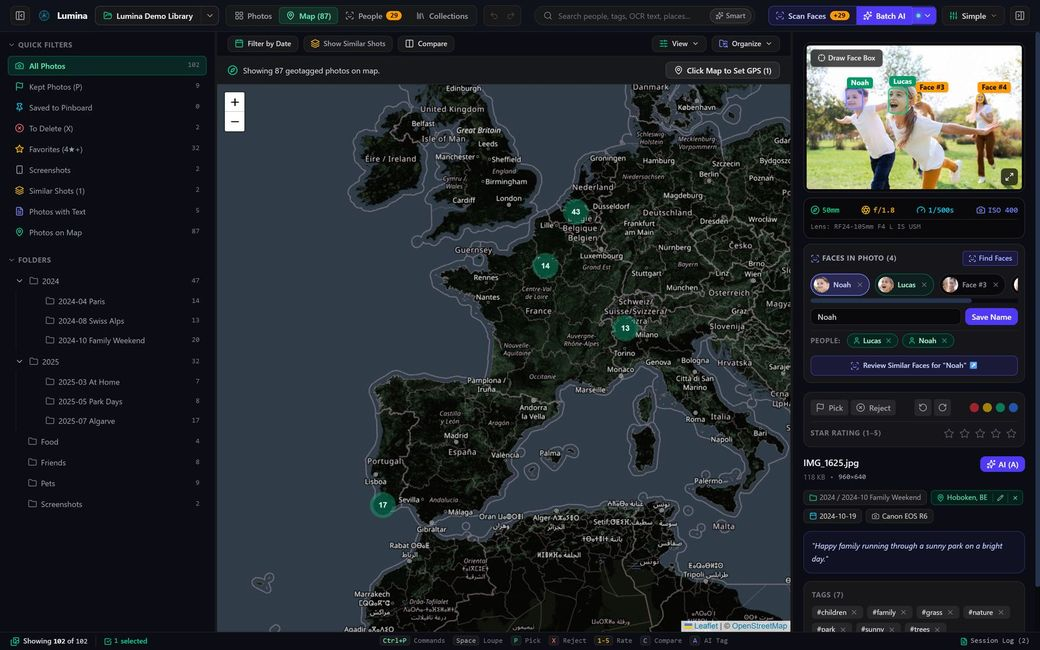
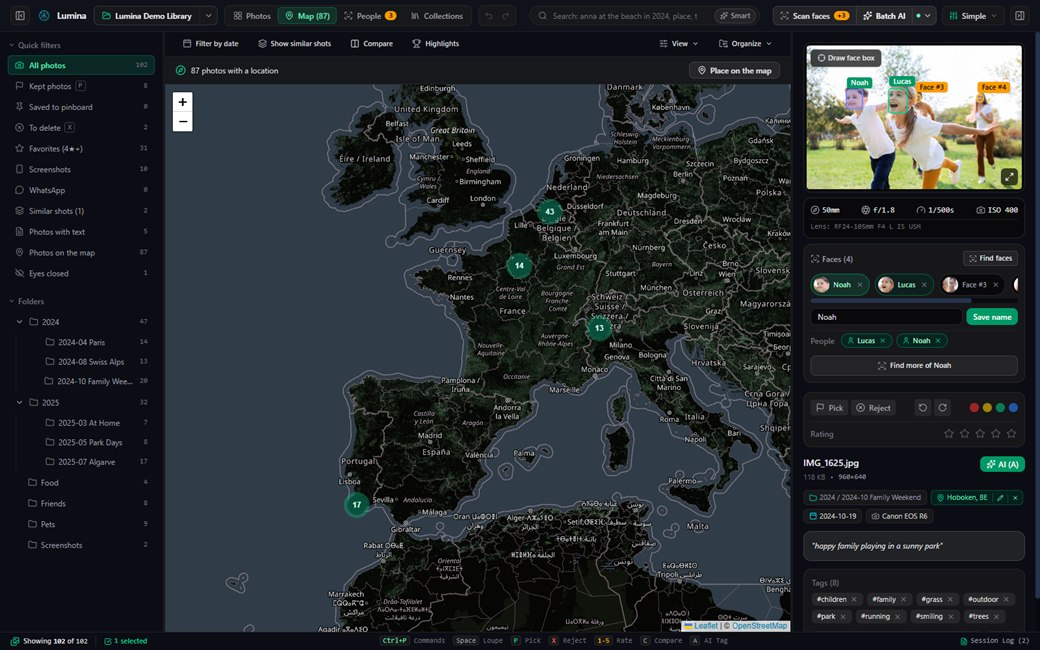
New welcome tour screenshots, shutter speeds as fractions, plainer compare and map
The tour's six screenshots are retaken on the demo library in the new look. Shutter speeds stored as
decimals (0.016666666666666666s) show as 1/60s. The compare view, its burst banner and the map's
location button lose their amber and Title Case. Notes for 5.4.0.

diff --git a/src/components/views/CompareView.tsx b/src/components/views/CompareView.tsx
@@ -109,9 +109,9 @@ export default function CompareView({
       {/* Synchronized Compare Toolbar */}
       <div className="bg-panel border-b border-zinc-800 px-4 py-2 flex items-center justify-between text-xs gap-3 flex-wrap">
         <div className="flex items-center gap-3">
-          <span className="font-semibold text-emerald-300 flex items-center gap-1.5">
-            <Columns className="w-4 h-4 text-emerald-400" />
-            <span>Synchronized Compare ({comparePhotos.length} photos)</span>
+          <span className="font-medium text-zinc-200 flex items-center gap-1.5">
+            <Columns className="w-4 h-4 text-zinc-400" />
+            <span>Side by side ({comparePhotos.length} {comparePhotos.length === 1 ? "photo" : "photos"})</span>
           </span>
           {hiddenCount > 0 && (
             <span
@@ -123,9 +123,9 @@ export default function CompareView({
           )}
 
           {currentBurstIdx >= 0 && unresolvedBurstGroups.length > 0 && (
-            <div className="flex items-center gap-1.5 bg-amber-500/10 border border-amber-500/30 text-amber-300 px-2.5 py-0.5 rounded-lg font-mono text-[11px]">
+            <div className="flex items-center gap-1.5 bg-zinc-800/80 border border-zinc-700 text-zinc-300 px-2.5 py-0.5 rounded-lg text-[11px] tabular-nums">
               <span>
-                Burst #{currentGroupId} ({currentBurstIdx + 1} of {unresolvedBurstGroups.length} remaining)
+                Burst {currentGroupId} · {currentBurstIdx + 1} of {unresolvedBurstGroups.length}
               </span>
               <button
                 onClick={() => {
@@ -136,7 +136,7 @@ export default function CompareView({
                     ];
                   if (prev) jumpToBurstGroup(prev);
                 }}
-                className="p-0.5 hover:bg-amber-500/20 rounded"
+                className="p-0.5 hover:bg-zinc-700 rounded"
                 title="Previous Burst Group"
               >
                 <ChevronLeft className="w-3.5 h-3.5" />
@@ -149,7 +149,7 @@ export default function CompareView({
                     ];
                   if (next) jumpToBurstGroup(next);
                 }}
-                className="p-0.5 hover:bg-amber-500/20 rounded"
+                className="p-0.5 hover:bg-zinc-700 rounded"
                 title="Skip to Next Burst Group"
               >
                 <ChevronRight className="w-3.5 h-3.5" />
@@ -187,13 +187,13 @@ export default function CompareView({
             }}
             className="px-2.5 py-1 bg-zinc-900 hover:bg-zinc-800 rounded border border-zinc-800 text-zinc-400 hover:text-white"
           >
-            Reset 100%
+            Reset zoom
           </button>
           <button
             onClick={() => setViewMode("grid")}
             className="px-3 py-1 bg-zinc-800 hover:bg-zinc-700 text-zinc-200 rounded font-medium ml-2"
           >
-            Exit Compare (C)
+            Exit compare (C)
           </button>
         </div>
       </div>
@@ -323,7 +323,7 @@ export default function CompareView({
                     title="Keep this photo as Pick, stage the rest for _Trash, and auto-advance to the next burst group"
                   >
                     <Trophy className="w-3.5 h-3.5" />
-                    <span>Keep This & Trash Rest</span>
+                    <span>Keep this, trash the rest</span>
                   </button>
                   )}
                 </div>

diff --git a/src/components/layout/RightInspector.tsx b/src/components/layout/RightInspector.tsx
@@ -1,5 +1,6 @@
 import { thumbSrc } from "../../utils/photoHelpers";
 import { codecLabel, formatDuration, isVideo } from "../../utils/media";
+import { shutterLabel } from "../../utils/exposure";
 import { memo, useEffect, useRef } from "react";
 import { call, mediaUrl } from "../../api";
 import { PersonName } from "../people/PersonName";
@@ -452,7 +453,7 @@ function RightInspector({
               </div>
               <div className="flex items-center gap-1 text-zinc-400" title="Shutter speed">
                 <Gauge className="w-3.5 h-3.5" />
-                <span className="text-zinc-200">{activePhoto.shutter_speed || "--s"}</span>
+                <span className="text-zinc-200">{shutterLabel(activePhoto.shutter_speed) || "--s"}</span>
               </div>
               <div className="flex items-center gap-1 text-zinc-400" title="ISO">
                 <Camera className="w-3.5 h-3.5" />
@@ -938,7 +939,7 @@ function RightInspector({
               className="inline-flex items-center gap-1 px-2 py-0.5 rounded-md bg-zinc-900 hover:bg-zinc-800 border border-dashed border-zinc-700 text-zinc-300 hover:text-white transition"
             >
               <MapPin className="w-3 h-3 text-emerald-400" />
-              <span>+ Add Location</span>
+              <span>Add location</span>
             </button>
           )}
           {activePhoto.captured_at && (

diff --git a/src/components/layout/ResultBanners.tsx b/src/components/layout/ResultBanners.tsx
@@ -39,17 +39,16 @@ export default function ResultBanners({ lib }: { lib: LibraryState }) {
 
       {(lib.smartFilter === "DUPLICATES" || lib.showAllBurstVersions) &&
         lib.duplicatePhotosCount > 0 && (
-          <div className="bg-amber-950/30 border-b border-amber-500/30 px-5 py-2 flex items-center justify-between shrink-0">
-            <span className="text-xs text-amber-200">
-              Comparing <strong>{lib.totalBurstGroups}</strong> Burst Groups (
-              {lib.duplicatePhotosCount} items):
+          <div className="bg-panel border-b border-zinc-800 px-5 py-2 flex items-center justify-between shrink-0">
+            <span className="text-xs text-zinc-300">
+              {lib.totalBurstGroups} {lib.totalBurstGroups === 1 ? "burst" : "bursts"}, {lib.duplicatePhotosCount} photos
             </span>
             {access.edit && (
             <button
               onClick={lib.handleKeepSharpestInAllGroups}
-              className="px-3 py-1 bg-emerald-600 hover:bg-emerald-500 text-white rounded-lg text-xs font-semibold shadow transition"
+              className="px-3 py-1 bg-emerald-600 hover:bg-emerald-500 text-white rounded-lg text-xs font-semibold transition"
             >
-              Keep Best & Stage Rest for _Trash
+              Keep the best, move the rest to _Trash
             </button>
             )}
           </div>

diff --git a/src/utils/welcome.ts b/src/utils/welcome.ts
@@ -14,6 +14,14 @@ export interface ReleaseNotes {
 // Newest first. Add an entry for every release that should greet updating users with "What's new".
 export const RELEASE_NOTES: ReleaseNotes[] = [
   {
+    version: "5.4.0",
+    items: [
+      { title: "A calmer look", text: "One accent colour instead of many, grey icons, labels in plain sentence case instead of capitals, and quieter buttons and badges, so your photos stand out. The phone app gets the same treatment." },
+      { title: "Plainer words", text: "Buttons and menus say what they do: Find faces, Find more of Anna, Keep this, trash the rest, Place on the map." },
+      { title: "Shutter speeds read normally", text: "Some cameras store 1/60 s in a way Lumina showed as 0.0166666666666666s. It shows as 1/60s again, also for photos already in your library." },
+    ],
+  },
+  {
     version: "5.3.0",
     items: [
       { title: "Back works on the phone", text: "The phone's back button closes what you opened last (a photo's details, the photo, a person, an album) instead of closing the app, just like the arrow at the top left. From another tab it goes back to Photos." },

diff --git a/src/components/phone/PhoneViewer.tsx b/src/components/phone/PhoneViewer.tsx
@@ -7,6 +7,7 @@ import { openWith, saveToPhone, serverOf, sharePhotos } from "./share";
 import type { FaceInstance, PersonItem, PhotoItem } from "../../types/lumina";
 import { formatBytes, thumbSrc } from "../../utils/photoHelpers";
 import { isVideo } from "../../utils/media";
+import { shutterLabel } from "../../utils/exposure";
 import LoupeVideo from "../modals/LoupeVideo";
 import { useBackCloses } from "./navigation";
 
@@ -467,7 +468,7 @@ function Details({
   }
   const aperture = photo.aperture ? `f/${String(photo.aperture).replace(/^f\//, "")}` : "";
   // A phone's lens name often holds the aperture already ("5.96mm f/1.6")
-  const exposure = [aperture && !(photo.lens_model ?? "").includes(aperture) && aperture, photo.shutter_speed, photo.iso && `ISO ${String(photo.iso).replace(/^ISO\s*/i, "")}`]
+  const exposure = [aperture && !(photo.lens_model ?? "").includes(aperture) && aperture, shutterLabel(photo.shutter_speed), photo.iso && `ISO ${String(photo.iso).replace(/^ISO\s*/i, "")}`]
     .filter(Boolean)
     .join(" · ");
   return (

diff --git a/src/components/views/MapPane.tsx b/src/components/views/MapPane.tsx
@@ -18,8 +18,8 @@ export default function MapPane({ lib }: { lib: LibraryState }) {
           )}
           <span className="text-zinc-300">
             {lib.isPickingMapLocation
-              ? `Click anywhere on the map to assign GPS coordinates to ${lib.selectedHashes.size} selected photo(s)...`
-              : `Showing ${lib.gpsPhotosCount} geotagged photos on map.`}
+              ? `Click the map to place the ${lib.selectedHashes.size} selected ${lib.selectedHashes.size === 1 ? "photo" : "photos"} there`
+              : `${lib.gpsPhotosCount} photos with a location`}
           </span>
         </div>
         {access.edit && (
@@ -35,8 +35,8 @@ export default function MapPane({ lib }: { lib: LibraryState }) {
           <MapPin className="w-3.5 h-3.5" />
           <span>
             {lib.isPickingMapLocation
-              ? "Cancel Map Pick"
-              : `Click Map to Set GPS (${lib.selectedHashes.size})`}
+              ? "Cancel"
+              : "Place on the map"}
           </span>
         </button>
         )}

diff --git a/src/components/modals/LoupeModal.tsx b/src/components/modals/LoupeModal.tsx
@@ -5,6 +5,7 @@ import { call, mediaUrl } from "../../api";
 import { useAccess } from "../auth/ServerGate";
 import { diskPathOf } from "../../utils/rawPairs";
 import { isVideo } from "../../utils/media";
+import { shutterLabel } from "../../utils/exposure";
 import LoupeVideo from "./LoupeVideo";
 import { useDialogFocus } from "../../hooks/useDialogFocus";
 import { useWheel } from "../../hooks/useWheel";
@@ -220,7 +221,7 @@ export default function LoupeModal({
           {!video && activePhoto.focal_length && (
             <span className="text-emerald-400 font-mono border-l border-zinc-800 pl-2.5">
               {activePhoto.focal_length} {activePhoto.aperture || ""}{" "}
-              {activePhoto.shutter_speed || ""} {activePhoto.iso || ""}
+              {shutterLabel(activePhoto.shutter_speed)} {activePhoto.iso || ""}
             </span>
           )}
         </div>

diff --git a/tests/exposure.test.ts b/tests/exposure.test.ts
@@ -1,0 +1,17 @@
+import { test } from "node:test";
+import assert from "node:assert/strict";
+import { shutterLabel } from "../src/utils/exposure.ts";
+
+test("shutter speeds stored as decimals show as fractions", () => {
+  assert.equal(shutterLabel("0.016666666666666666s"), "1/60s");
+  assert.equal(shutterLabel("0.001s"), "1/1000s");
+  assert.equal(shutterLabel("0.5s"), "1/2s");
+});
+
+test("fractions, long exposures and empty values", () => {
+  assert.equal(shutterLabel("1/250s"), "1/250s");
+  assert.equal(shutterLabel("2s"), "2s");
+  assert.equal(shutterLabel("1.3333333s"), "1.3s");
+  assert.equal(shutterLabel(null), "");
+  assert.equal(shutterLabel(""), "");
+});

diff --git a/src/utils/exposure.ts b/src/utils/exposure.ts
@@ -1,0 +1,11 @@
+// A shutter speed as photographers write it. Some cameras store 1/60 s as a fraction like 10/600, which
+// the EXIF reader gives as "0.016666666666666666s": short exposures become 1/60s again, long ones keep a decimal.
+export function shutterLabel(value: string | null | undefined): string {
+  if (!value) return "";
+  const m = value.trim().match(/^(\d*\.\d+|\d+)\s*s?$/);
+  if (!m) return value;
+  const seconds = Number(m[1]);
+  if (!(seconds > 0)) return value;
+  if (seconds < 1) return `1/${Math.round(1 / seconds)}s`;
+  return `${Number(seconds.toFixed(1))}s`;
+}

diff --git a/src/components/layout/PhotoToolbar.tsx b/src/components/layout/PhotoToolbar.tsx
@@ -126,7 +126,7 @@ export default function PhotoToolbar({ lib }: { lib: LibraryState }) {
             {lib.selectedPeriodRange
               ? `${lib.selectedPeriodRange[0]} ➔ ${lib.selectedPeriodRange[1]}`
               : lib.simpleMode
-              ? "Filter by Date"
+              ? "Filter by date"
               : "Timeline"}
           </span>
           {lib.selectedPeriodRange && (
